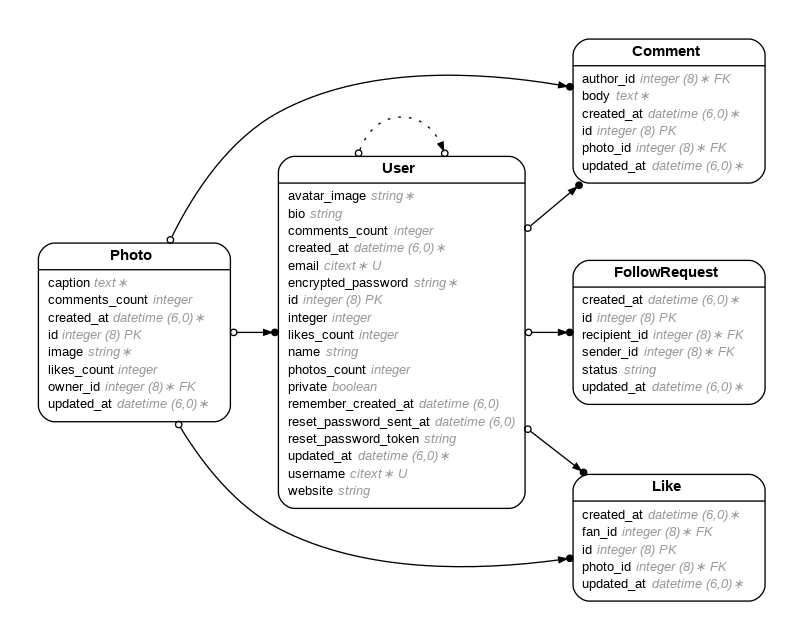
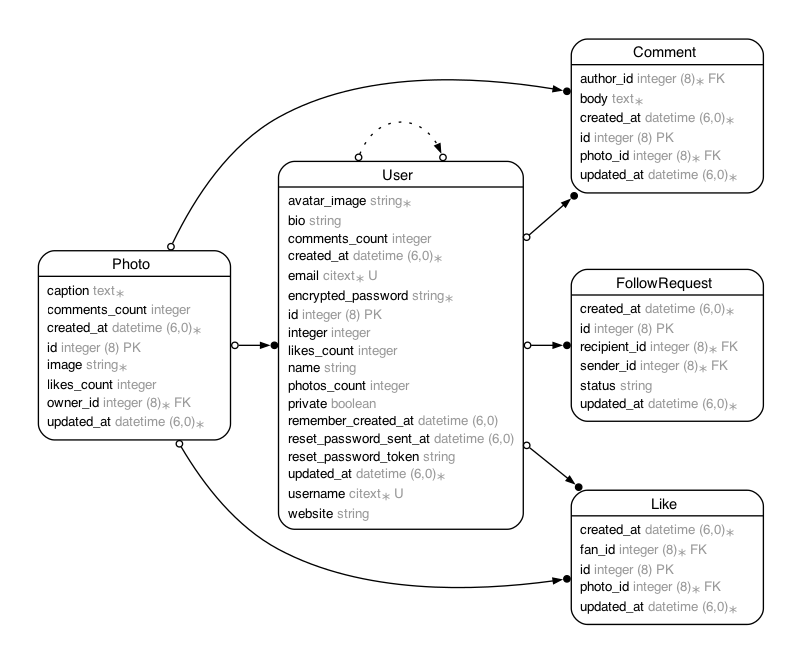
Fix erd and spec annotations

diff --git a/spec/models/user_spec.rb b/spec/models/user_spec.rb
@@ -1,3 +1,32 @@
+# == Schema Information
+#
+# Table name: users
+#
+#  id                     :bigint           not null, primary key
+#  avatar_image           :string           default("avatar_placeholder.png")
+#  bio                    :string
+#  comments_count         :integer          default(0)
+#  email                  :citext           default(""), not null
+#  encrypted_password     :string           default(""), not null
+#  integer                :integer          default(0)
+#  likes_count            :integer          default(0)
+#  name                   :string
+#  photos_count           :integer          default(0)
+#  private                :boolean          default(TRUE)
+#  remember_created_at    :datetime
+#  reset_password_sent_at :datetime
+#  reset_password_token   :string
+#  username               :citext           not null
+#  website                :string
+#  created_at             :datetime         not null
+#  updated_at             :datetime         not null
+#
+# Indexes
+#
+#  index_users_on_email                 (email) UNIQUE
+#  index_users_on_reset_password_token  (reset_password_token) UNIQUE
+#  index_users_on_username              (username) UNIQUE
+#
 require "rails_helper"
 
 

diff --git a/spec/models/follow_request_spec.rb b/spec/models/follow_request_spec.rb
@@ -1,3 +1,24 @@
+# == Schema Information
+#
+# Table name: follow_requests
+#
+#  id           :bigint           not null, primary key
+#  status       :string           default("pending")
+#  created_at   :datetime         not null
+#  updated_at   :datetime         not null
+#  recipient_id :bigint           not null
+#  sender_id    :bigint           not null
+#
+# Indexes
+#
+#  index_follow_requests_on_recipient_id  (recipient_id)
+#  index_follow_requests_on_sender_id     (sender_id)
+#
+# Foreign Keys
+#
+#  fk_rails_...  (recipient_id => users.id)
+#  fk_rails_...  (sender_id => users.id)
+#
 require "rails_helper"
 
 RSpec.describe FollowRequest, type: :model do

diff --git a/spec/models/photo_spec.rb b/spec/models/photo_spec.rb
@@ -1,3 +1,24 @@
+# == Schema Information
+#
+# Table name: photos
+#
+#  id             :bigint           not null, primary key
+#  caption        :text
+#  comments_count :integer          default(0)
+#  image          :string
+#  likes_count    :integer          default(0)
+#  created_at     :datetime         not null
+#  updated_at     :datetime         not null
+#  owner_id       :bigint           not null
+#
+# Indexes
+#
+#  index_photos_on_owner_id  (owner_id)
+#
+# Foreign Keys
+#
+#  fk_rails_...  (owner_id => users.id)
+#
 require "rails_helper"
 
 RSpec.describe Photo, type: :model do

diff --git a/spec/models/comment_spec.rb b/spec/models/comment_spec.rb
@@ -1,3 +1,24 @@
+# == Schema Information
+#
+# Table name: comments
+#
+#  id         :bigint           not null, primary key
+#  body       :text
+#  created_at :datetime         not null
+#  updated_at :datetime         not null
+#  author_id  :bigint           not null
+#  photo_id   :bigint           not null
+#
+# Indexes
+#
+#  index_comments_on_author_id  (author_id)
+#  index_comments_on_photo_id   (photo_id)
+#
+# Foreign Keys
+#
+#  fk_rails_...  (author_id => users.id)
+#  fk_rails_...  (photo_id => photos.id)
+#
 require "rails_helper"
 
 RSpec.describe Comment, type: :model do

diff --git a/spec/models/like_spec.rb b/spec/models/like_spec.rb
@@ -1,3 +1,23 @@
+# == Schema Information
+#
+# Table name: likes
+#
+#  id         :bigint           not null, primary key
+#  created_at :datetime         not null
+#  updated_at :datetime         not null
+#  fan_id     :bigint           not null
+#  photo_id   :bigint           not null
+#
+# Indexes
+#
+#  index_likes_on_fan_id    (fan_id)
+#  index_likes_on_photo_id  (photo_id)
+#
+# Foreign Keys
+#
+#  fk_rails_...  (fan_id => users.id)
+#  fk_rails_...  (photo_id => photos.id)
+#
 require "rails_helper"
 
 RSpec.describe Like, type: :model do
